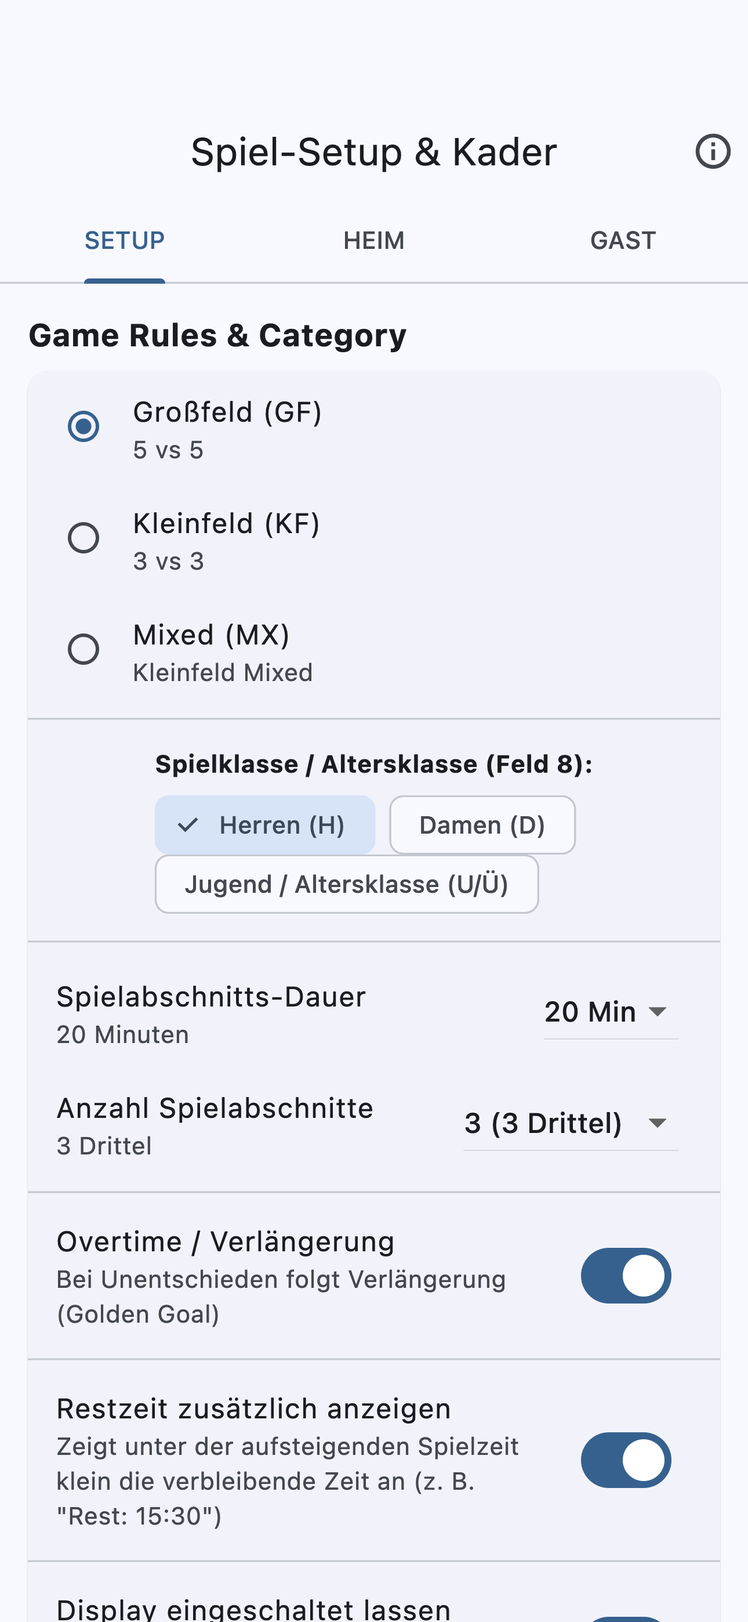
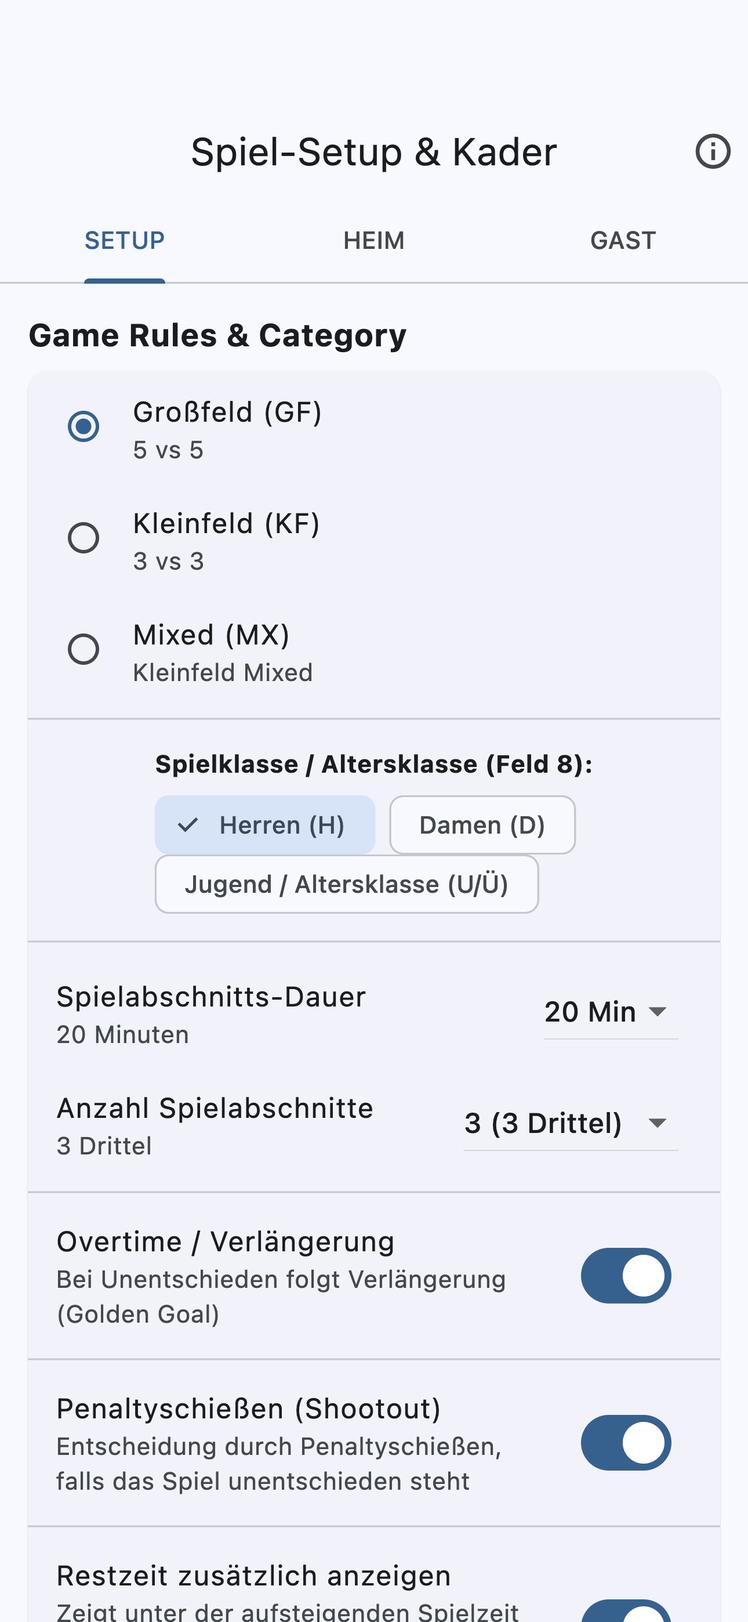
Update Floorball Clock website and manual with penalty shootout support, UI panel, scoreboard integration, and updated screenshot gallery

Changed region(s): [[0.062, 0.8401, 0.7132, 1.0], [0.7752, 0.9646, 0.8992, 1.0], [0.7752, 0.8712, 0.8992, 0.9335]]

diff --git a/handbuch.html b/handbuch.html
@@ -3,7 +3,7 @@
 <head>
   <meta charset="UTF-8">
   <meta name="viewport" content="width=device-width, initial-scale=1.0">
-  <meta name="description" content="Offizielles Benutzerhandbuch für Floorball Clock nach dem Floorball-Regelwerk 2026 (SPRGK 2026 / IFF 2026): Spielsekretariat, Spielzeitmessung (Regel 201.1), Zeitanpassung, 2' / 2'+2' / 10' Strafen-Bearbeitung, DE/EN Mehrsprachigkeit, Betreuer, Scoreboard & offizieller PDF-Spielberichtsbogen.">
+  <meta name="description" content="Offizielles Benutzerhandbuch für Floorball Clock nach dem Floorball-Regelwerk 2026 (SPRGK 2026 / IFF 2026): Spielsekretariat, Spielzeitmessung (Regel 201.1), Zeitanpassung, Penaltyschießen (Shootout), 2' / 2'+2' / 10' Strafen-Bearbeitung, DE/EN Mehrsprachigkeit, Betreuer, Scoreboard & offizieller PDF-Spielberichtsbogen.">
   <title>Benutzerhandbuch – Floorball Clock (Regelwerk 2026) | Alex Wodniok</title>
   <link rel="stylesheet" href="css/style.css?v=2">
 </head>
@@ -46,7 +46,7 @@
       <div class="badge badge-orange">Offizielle Dokumentation nach Floorball-Regelwerk 2026 (SPRGK / IFF)</div>
       <h1>Floorball Clock <span class="text-gradient">Benutzerhandbuch</span></h1>
       <p style="font-size: 1.15rem; max-width: 800px;">
-        Vollständige Referenz und Anleitung für das digitale Spielsekretariat nach den <strong>Floorball-Spielregeln 2026</strong>. Erfahren Sie alles über die präzise Spielzeitsteuerung, aufsteigende Hallenanzeige (Regel 201.1), Zeitanpassung, das automatisierte 2' / 2'+2' / 10' Strafen-Management mit Live-Korrektur, Betreuer-Erfassung, zweisprachigen Betrieb (DE/EN) und den offiziellen Floorball-Deutschland PDF-Spielbericht.
+        Vollständige Referenz und Anleitung für das digitale Spielsekretariat nach den <strong>Floorball-Spielregeln 2026</strong>. Erfahren Sie alles über die präzise Spielzeitsteuerung, aufsteigende Hallenanzeige (Regel 201.1), Zeitanpassung, Penaltyschießen (Shootout), das automatisierte 2' / 2'+2' / 10' Strafen-Management mit Live-Korrektur, Betreuer-Erfassung, zweisprachigen Betrieb (DE/EN) und den offiziellen Floorball-Deutschland PDF-Spielbericht.
       </p>
     </div>
   </section>
@@ -63,14 +63,15 @@
           <li><a href="#spielzeit">2. Spielzeit, Formate & Regel 201.1</a></li>
           <li><a href="#pausen">3. Pausen & Intermissions</a></li>
           <li><a href="#tore">4. Spielstand & Tore erfassen</a></li>
-          <li><a href="#strafen-arten">5. Strafarten (Regelwerk 2026)</a></li>
-          <li><a href="#strafen-engine">6. Strafen-Logik & Live-Korrektur</a></li>
-          <li><a href="#timeout">7. Auszeiten / Timeouts (30s)</a></li>
-          <li><a href="#roster">8. Kader, Betreuer (Staff) & Vorlagen</a></li>
-          <li><a href="#display">9. Hallenanzeige (Scoreboard)</a></li>
-          <li><a href="#spielbericht">10. Offizieller PDF-Spielbericht</a></li>
-          <li><a href="#autosave">11. Auto-Save & Crash-Schutz</a></li>
-          <li><a href="#faq">12. FAQ & Schiedsgericht-Tipps</a></li>
+          <li><a href="#shootout">5. Penaltyschießen (Shootout)</a></li>
+          <li><a href="#strafen-arten">6. Strafarten (Regelwerk 2026)</a></li>
+          <li><a href="#strafen-engine">7. Strafen-Logik & Live-Korrektur</a></li>
+          <li><a href="#timeout">8. Auszeiten / Timeouts (30s)</a></li>
+          <li><a href="#roster">9. Kader, Betreuer & Vorlagen</a></li>
+          <li><a href="#display">10. Hallenanzeige (Scoreboard)</a></li>
+          <li><a href="#spielbericht">11. Offizieller PDF-Spielbericht</a></li>
+          <li><a href="#autosave">12. Auto-Save & Crash-Schutz</a></li>
+          <li><a href="#faq">13. FAQ & Schiedsgericht-Tipps</a></li>
         </ul>
       </aside>
 
@@ -199,9 +200,51 @@
           </div>
         </article>
 
-        <!-- 5. Strafarten -->
+        <!-- 5. Penaltyschießen (Shootout) -->
+        <article class="manual-section" id="shootout">
+          <h2>5. Penaltyschießen (Shootout) nach IFF-Reglement</h2>
+          <div class="manual-card">
+            <p>
+              Endet ein K.o.- oder Playoff-Spiel auch nach der Overtime unentschieden, schaltet Floorball Clock nahtlos in den <strong>Penalty-Shootout-Modus</strong> um:
+            </p>
+
+            <div class="step-block">
+              <div class="step-number">🥅</div>
+              <div class="step-details">
+                <h4>5 reguläre Schützen pro Team</h4>
+                <p>Jedes Team nominiert 5 Schützen aus dem aktuellen Spielkader. Die App führt das Schiedsgericht abwechselnd durch die Versuche von Heim- und Gastteam.</p>
+              </div>
+            </div>
+
+            <div class="step-block">
+              <div class="step-number">✓ / ✗</div>
+              <div class="step-details">
+                <h4>Einfache Treffer-Erfassung & Validierung</h4>
+                <p>Für jeden Schützen wird per Fingertipp protokolliert, ob der Penalty verwandelt (<strong>Tor ✓</strong>) oder vergeben (<strong>Kein Tor ✗</strong>) wurde. Die App berechnet den vorzeitigen Sieg, sobald ein Team uneinholbar führt.</p>
+              </div>
+            </div>
+
+            <div class="step-block">
+              <div class="step-number">⚡</div>
+              <div class="step-details">
+                <h4>Sudden-Death-Verlängerung bei Gleichstand</h4>
+                <p>Steht es nach 5 Runden unentschieden, wechselt das System automatisch in das <em>Sudden-Death-Penaltyschießen</em> (1-gegen-1-Runden bis zur Entscheidung).</p>
+              </div>
+            </div>
+
+            <div class="step-block">
+              <div class="step-number">🖥</div>
+              <div class="step-details">
+                <h4>Scoreboard & PDF-Integration</h4>
+                <p>Die Treffer werden in Echtzeit auf dem externen Hallen-Scoreboard für alle Zuschauer visualisiert und automatisch im offiziellen PDF-Spielberichtsbogen dokumentiert.</p>
+              </div>
+            </div>
+          </div>
+        </article>
+
+        <!-- 6. Strafarten -->
         <article class="manual-section" id="strafen-arten">
-          <h2>5. Unterstützte Strafarten (Floorball-Regelwerk 2026)</h2>
+          <h2>6. Unterstützte Strafarten (Floorball-Regelwerk 2026)</h2>
           <div class="manual-card">
             <p>
               In Floorball Clock sind exakt die im offiziellen Regelwerk 2026 (SPRGK / IFF) definierten Strafarten hinterlegt:
@@ -255,9 +298,9 @@
           </div>
         </article>
 
-        <!-- 6. Die Strafen-Logik & Live-Korrektur -->
+        <!-- 7. Die Strafen-Logik & Live-Korrektur -->
         <article class="manual-section" id="strafen-engine">
-          <h2>6. Die intelligente Strafen-Engine & Live-Korrektur</h2>
+          <h2>7. Die intelligente Strafen-Engine & Live-Korrektur</h2>
           <div class="manual-card">
             <p>
               Floorball Clock verfügt über eine hochentwickelte Regellogik, die dem Schiedsgericht alle Berechnungen vollautomatisch abnimmt:
@@ -300,9 +343,9 @@
           </div>
         </article>
 
-        <!-- 7. Timeouts -->
+        <!-- 8. Timeouts -->
         <article class="manual-section" id="timeout">
-          <h2>7. Auszeiten / Timeouts (30 Sekunden)</h2>
+          <h2>8. Auszeiten / Timeouts (30 Sekunden)</h2>
           <div class="manual-card">
             <p>
               Jedes Team hat pro Spiel Anspruch auf <strong>genau ein Timeout von 30 Sekunden</strong>:
@@ -317,9 +360,9 @@
           </div>
         </article>
 
-        <!-- 8. Kader, Betreuer & Vorlagen -->
+        <!-- 9. Kader, Betreuer & Vorlagen -->
         <article class="manual-section" id="roster">
-          <h2>8. Kader (Roster), Betreuer-Erfassung (Staff) & Vorlagen</h2>
+          <h2>9. Kader (Roster), Betreuer-Erfassung (Staff) & Vorlagen</h2>
           <div class="manual-card">
             <p>
               Über das Personen-Symbol in der App-Leiste gelangen Sie zur Kaderverwaltung (<em>Match Setup & Rosters</em>):
@@ -359,9 +402,9 @@
           </div>
         </article>
 
-        <!-- 9. Hallenanzeige (Scoreboard) -->
+        <!-- 10. Hallenanzeige (Scoreboard) -->
         <article class="manual-section" id="display">
-          <h2>9. Hallenanzeige / Scoreboard auf externen Monitoren</h2>
+          <h2>10. Hallenanzeige / Scoreboard auf externen Monitoren</h2>
           <div class="manual-card">
             <p>
               Floorball Clock bietet native Multi-Display-Unterstützung für alle Plattformen mit automatischem, responsivem Layout:
@@ -385,20 +428,20 @@
 
             <div class="callout callout-tip">
               <h5>✨ Scoreboard Layout gem. Regel 201.1</h5>
-              <p>Aufsteigende Spielzeitanzeige (<code>00:00 -> 20:00</code>), Team-Namen & Logos, aktueller Spielabschnitt, Strafzeiten mit Spielernummern und Phasenkennzeichnung <code>(1/2)</code>, Pausen-Countdowns sowie aktive Timeout-Countdowns.</p>
+              <p>Aufsteigende Spielzeitanzeige (<code>00:00 -> 20:00</code>), Team-Namen & Logos, aktueller Spielabschnitt, Strafzeiten mit Spielernummern und Phasenkennzeichnung <code>(1/2)</code>, Pausen-Countdowns, aktive Timeout-Countdowns und Shootout-Ergebnisse.</p>
             </div>
           </div>
         </article>
 
-        <!-- 10. Spielbericht & PDF-Export -->
+        <!-- 11. Spielbericht & PDF-Export -->
         <article class="manual-section" id="spielbericht">
-          <h2>10. Offizieller Floorball Deutschland Spielbericht (PDF)</h2>
+          <h2>11. Offizieller Floorball Deutschland Spielbericht (PDF)</h2>
           <div class="manual-card">
             <p>
               Über das Protokoll-Symbol in der Titelleiste öffnen Sie den <strong>Match Report Screen</strong>:
             </p>
             <ul style="padding-left: 1.5rem; line-height: 1.8; margin-bottom: 1.5rem;">
-              <li><strong>Offizielles Verbands-Layout:</strong> Generiert einen vollständigen Floorball-Deutschland-Spielberichtsbogen inklusive Spielabschnitts-Ergebnisse, Kaderlisten und Betreuern mit exakter Ausrichtung der Verbands-Ankreuzfelder.</li>
+              <li><strong>Offizielles Verbands-Layout:</strong> Generiert einen vollständigen Floorball-Deutschland-Spielberichtsbogen inklusive Spielabschnitts-Ergebnisse, Penaltyschützen, Kaderlisten und Betreuern mit exakter Ausrichtung der Verbands-Ankreuzfelder.</li>
               <li><strong>Interaktive PDF-Vorschau:</strong> Dedizierter Vorschaubildschirm mit Zoom, Seitenansicht und direkter Druck- und Teilen-Option.</li>
               <li><strong>Chronologischer Spielverlauf:</strong> Lückenlose Aufzeichnung aller Tore (inkl. Schütze & Assist), Strafen (inkl. offizieller Vergehen-Codes gem. IFF) und Timeouts.</li>
               <li><strong>Digitale Unterschriften:</strong> Erfassung der Signaturen für 1. Schiedsrichter, 2. Schiedsrichter, Sekretär und beide Kapitäne direkt auf dem Touchscreen.</li>
@@ -407,25 +450,28 @@
           </div>
         </article>
 
-        <!-- 11. Auto-Save -->
+        <!-- 12. Auto-Save -->
         <article class="manual-section" id="autosave">
-          <h2>11. Zustandsspeicherung & Auto-Save (Crash-Sicherheit)</h2>
+          <h2>12. Zustandsspeicherung & Auto-Save (Crash-Sicherheit)</h2>
           <div class="manual-card">
             <p>
               Höchste Ausfallsicherheit am Zeitnehmertisch:
             </p>
             <ul style="padding-left: 1.5rem; line-height: 1.8;">
-              <li><strong>Laufende Speicherung:</strong> Der gesamte Spielstand (Restzeit, Tore, Strafen-Timer, Roster, Betreuer und Status) wird alle 5 Sekunden sowie bei jeder Aktion automatisch auf dem Gerät gesichert.</li>
+              <li><strong>Laufende Speicherung:</strong> Der gesamte Spielstand (Restzeit, Tore, Strafen-Timer, Shootout-State, Roster, Betreuer und Status) wird alle 5 Sekunden sowie bei jeder Aktion automatisch auf dem Gerät gesichert.</li>
               <li><strong>Wiederherstellung:</strong> Sollte die App geschlossen werden oder das Tablet neu starten, stellt Floorball Clock den exakten Spielzustand beim nächsten Start lückenlos wieder her.</li>
             </ul>
           </div>
         </article>
 
-        <!-- 12. FAQ -->
+        <!-- 13. FAQ -->
         <article class="manual-section" id="faq">
-          <h2>12. Häufige Fragen & Praxistipps</h2>
+          <h2>13. Häufige Fragen & Praxistipps</h2>
           <div class="manual-card">
-            <h4>Wie verhält sich die App, wenn zwei Strafen exakt zeitgleich enden?</h4>
+            <h4>Wie verhält sich die App beim Penaltyschießen?</h4>
+            <p>Die App führt das Schiedsgericht durch die 5 regulären Schützen pro Team. Fällt keine Entscheidung, startet automatisch das Sudden-Death-Verfahren. Alle Treffer werden synchron auf der Hallenanzeige und im Spielbericht eingetragen.</p>
+
+            <h4 style="margin-top: 1.5rem;">Wie verhält sich die App, wenn zwei Strafen exakt zeitgleich enden?</h4>
             <p>Gemäß IFF Regel 603.2 öffnet die App einen Schiedsgerichts-Dialog (<em>Entscheidung erforderlich: Welcher Spieler kehrt zurück?</em>), um dem Zeitnehmer die manuelle Entscheidung zu überlassen.</p>
 
             <h4 style="margin-top: 1.5rem;">Können Strafzeiten während des Spiels korrigiert werden?</h4>
@@ -438,7 +484,7 @@
             <p><strong>Ja!</strong> Floorball Clock ist vollständig in <strong>Deutsch und Englisch</strong> verfügbar und passt sich automatisch den Systemeinstellungen Ihres Geräts an.</p>
 
             <h4 style="margin-top: 1.5rem;">Funktioniert die App vollständig offline in der Sporthalle?</h4>
-            <p><strong>Ja!</strong> Zeitmessung, Strafen-Engine, Huptöne, Beamer-Ausgabe und PDF-Erstellung benötigen keinerlei Internetverbindung.</p>
+            <p><strong>Ja!</strong> Zeitmessung, Strafen-Engine, Penaltyschießen, Huptöne, Beamer-Ausgabe und PDF-Erstellung benötigen keinerlei Internetverbindung.</p>
           </div>
         </article>
 
@@ -463,6 +509,7 @@
           <ul class="footer-links">
             <li><a href="floorball-clock.html">App Details</a></li>
             <li><a href="handbuch.html">Benutzerhandbuch</a></li>
+            <li><a href="#shootout">Penaltyschießen</a></li>
             <li><a href="#strafen-arten">Strafarten</a></li>
             <li><a href="#display">Hallen-Scoreboard</a></li>
           </ul>

diff --git a/floorball-clock.html b/floorball-clock.html
@@ -3,13 +3,13 @@
 <head>
   <meta charset="UTF-8">
   <meta name="viewport" content="width=device-width, initial-scale=1.0">
-  <meta name="description" content="Floorball Clock – Das professionelle digitale Spielsekretariat für Floorball & Unihockey nach dem offiziellen Regelwerk 2026 (SPRGK 2026 / IFF 2026 / Floorball Deutschland). Spielzeit, Zeitanpassung, 2' / 2'+2' / 10' Strafen-Bearbeitung, Betreuer-Erfassung, Scoreboard & offizieller PDF-Spielberichtsbogen.">
-  <meta name="keywords" content="Floorball Clock, Floorball Spielsekretariat, Unihockey Scoreboard, Hallenuhr, Strafen Floorball, Floorball Deutschland, SPRGK 2026, IFF 2026, Alexander Wodniok">
+  <meta name="description" content="Floorball Clock – Das professionelle digitale Spielsekretariat für Floorball & Unihockey nach dem offiziellen Regelwerk 2026 (SPRGK 2026 / IFF 2026 / Floorball Deutschland). Spielzeit, Zeitanpassung, 2' / 2'+2' / 10' Strafen-Bearbeitung, Penaltyschießen, Betreuer-Erfassung, Scoreboard & offizieller PDF-Spielberichtsbogen.">
+  <meta name="keywords" content="Floorball Clock, Floorball Spielsekretariat, Penaltyschießen Floorball, Unihockey Scoreboard, Hallenuhr, Strafen Floorball, Floorball Deutschland, SPRGK 2026, IFF 2026, Alexander Wodniok">
   <meta name="author" content="Alexander Wodniok">
   <link rel="canonical" href="https://alwode.github.io/wodniok_website/floorball-clock.html">
   <meta property="og:title" content="Floorball Clock – Digitales Spielsekretariat & Hallenuhr (Regelwerk 2026)">
-  <meta property="og:description" content="Professionelles digitales Spielsekretariat für Floorball & Unihockey nach dem Regelwerk 2026. Mit Zeitanpassung, 2' / 2'+2' / 10' Strafen-Logik, Hallen-Scoreboard und offiziellem PDF-Spielbericht.">
-  <meta property="og:image" content="https://alwode.github.io/wodniok_website/images/floorball-clock-screenshot-main.png?v=5">
+  <meta property="og:description" content="Professionelles digitales Spielsekretariat für Floorball & Unihockey nach dem Regelwerk 2026. Mit Zeitanpassung, 2' / 2'+2' / 10' Strafen-Logik, Penaltyschießen, Hallen-Scoreboard und offiziellem PDF-Spielbericht.">
+  <meta property="og:image" content="https://alwode.github.io/wodniok_website/images/floorball-clock-screenshot-main.png?v=7">
   <meta property="og:url" content="https://alwode.github.io/wodniok_website/floorball-clock.html">
   <meta property="og:type" content="website">
   <title>Floorball Clock – Digitales Spielsekretariat & Hallenuhr (Regelwerk 2026) | Alex Wodniok</title>
@@ -54,7 +54,7 @@
         <div class="badge badge-orange">Offizielles Floorball-Regelwerk 2026 (SPRGK / IFF)</div>
         <h1>Floorball <span class="text-gradient">Clock</span></h1>
         <p class="hero-subtitle">
-          Die professionelle Komplettlösung für Schiedsgerichte, Zeitnehmer und Vereine – vollständig angepasst an die <strong>Floorball-Spielregeln 2026</strong>. Ersetzt Stoppuhren und Papierformulare durch automatisierte <strong>2' / 2'+2' / 10'</strong> Strafen-Logik, Zeitanpassung, aufsteigende Hallenanzeige (Regel 201.1), zweisprachige Oberfläche (DE/EN), Betreuer-Erfassung und offizielle Floorball-Deutschland PDF-Spielberichte.
+          Die professionelle Komplettlösung für Schiedsgerichte, Zeitnehmer und Vereine – vollständig angepasst an die <strong>Floorball-Spielregeln 2026</strong>. Ersetzt Stoppuhren und Papierformulare durch automatisierte <strong>2' / 2'+2' / 10'</strong> Strafen-Logik, Zeitanpassung, interaktives <strong>Penaltyschießen (Shootout)</strong>, aufsteigende Hallenanzeige (Regel 201.1), zweisprachige Oberfläche (DE/EN), Betreuer-Erfassung und offizielle Floorball-Deutschland PDF-Spielberichte.
         </p>
 
         <div class="hero-buttons">
@@ -71,8 +71,8 @@
             <p>Zehntelsekunden im Schlussspurt</p>
           </div>
           <div class="stat-item">
-            <h4>Regelwerk 2026</h4>
-            <p>2' / 2'+2' / 10' Strafen-Engine & Live-Korrektur</p>
+            <h4>Shootout</h4>
+            <p>Penaltyschießen & Sudden Death</p>
           </div>
           <div class="stat-item">
             <h4>DE / EN</h4>
@@ -84,7 +84,7 @@
       <!-- App Screenshot Hero (iPhone) -->
       <div class="hero-visual">
         <div class="app-visual-wrapper">
-          <img src="images/floorball-clock-screenshot-main.png?v=6" alt="Floorball Clock iPhone Screenshot Hauptsteuerung mit Zeitanpassung" class="app-screenshot-hero" style="border-color: rgba(99, 102, 241, 0.4); box-shadow: var(--shadow-glow); max-width: 290px;">
+          <img src="images/floorball-clock-screenshot-main.png?v=7" alt="Floorball Clock iPhone Screenshot Hauptsteuerung mit Zeitanpassung" class="app-screenshot-hero" style="border-color: rgba(99, 102, 241, 0.4); box-shadow: var(--shadow-glow); max-width: 290px;">
         </div>
       </div>
     </div>
@@ -96,46 +96,54 @@
       <div class="section-header" style="margin-bottom: 2rem;">
         <div class="badge badge-orange">App Store & Feature Einblicke</div>
         <h2>App-Screenshots auf iPhone, iPad & Hallen-Scoreboard</h2>
-        <p>Entwickelt für eine intuitive Bedienung am Schreibertisch mit schnellen Aktionen, präziser Zeitanpassung, Strafen-Korrektur und regelkonformer Hallenanzeige.</p>
+        <p>Entwickelt für eine intuitive Bedienung am Schreibertisch mit schnellen Aktionen, präziser Zeitanpassung, Strafen-Korrektur, Penaltyschießen und regelkonformer Hallenanzeige.</p>
       </div>
 
       <div class="screenshots-gallery-grid">
         <!-- Item 1 -->
         <div class="screenshot-gallery-item">
           <div class="screenshot-img-box">
-            <img src="images/floorball-clock-screenshot-main.png?v=6" alt="Floorball Clock iPhone Hauptsteuerung & Spielsekretariat mit Zeitanpassung">
+            <img src="images/floorball-clock-screenshot-main.png?v=7" alt="Floorball Clock iPhone Hauptsteuerung & Spielsekretariat mit Zeitanpassung">
           </div>
           <div class="screenshot-caption">⏱ Spielsekretariat & Feineinstellung (-5s..+5s)</div>
         </div>
 
-        <!-- Item 2 -->
+        <!-- Item 2: Penalty Shootout -->
         <div class="screenshot-gallery-item">
           <div class="screenshot-img-box">
-            <img src="images/floorball-clock-screenshot-penalty.png?v=6" alt="Floorball Clock Strafen-Eingabedialog und Strafen-Korrektur">
+            <img src="images/floorball-clock-screenshot-shootout.png?v=7" alt="Floorball Clock Penaltyschießen Shootout Panel">
           </div>
-          <div class="screenshot-caption">⚖ 2' / 2'+2' / 10' / MS Strafen & Korrektur</div>
+          <div class="screenshot-caption">🥅 Penaltyschießen (5 Schützen & Sudden Death)</div>
         </div>
 
         <!-- Item 3 -->
         <div class="screenshot-gallery-item">
           <div class="screenshot-img-box">
-            <img src="images/floorball-clock-screenshot-setup.png?v=6" alt="Floorball Clock Spielregeln Großfeld 5v5 Kleinfeld 3v3 und Overtime">
+            <img src="images/floorball-clock-screenshot-penalty.png?v=7" alt="Floorball Clock Strafen-Eingabedialog und Strafen-Korrektur">
           </div>
-          <div class="screenshot-caption">⚙ Großfeld (5v5) / Kleinfeld (3v3) & Team-Vorlagen</div>
+          <div class="screenshot-caption">⚖ 2' / 2'+2' / 10' / MS Strafen & Korrektur</div>
         </div>
 
         <!-- Item 4 -->
         <div class="screenshot-gallery-item">
           <div class="screenshot-img-box">
-            <img src="images/floorball-clock-screenshot-report.png?v=6" alt="Floorball Clock Offizieller Floorball Deutschland Spielbericht mit PDF-Export">
+            <img src="images/floorball-clock-screenshot-setup.png?v=7" alt="Floorball Clock Spielregeln Großfeld 5v5 Kleinfeld 3v3 und Overtime">
           </div>
-          <div class="screenshot-caption">📄 Interaktiver Spielbericht & PDF-Vorschau</div>
+          <div class="screenshot-caption">⚙ Großfeld (5v5) / Kleinfeld (3v3) & Team-Vorlagen</div>
         </div>
 
         <!-- Item 5 -->
         <div class="screenshot-gallery-item">
           <div class="screenshot-img-box">
-            <img src="images/floorball-clock-screenshot-scoreboard.png?v=6" alt="Floorball Clock Scoreboard Beamer Hallenanzeige Regel 201.1">
+            <img src="images/floorball-clock-screenshot-report.png?v=7" alt="Floorball Clock Offizieller Floorball Deutschland Spielbericht mit PDF-Export">
+          </div>
+          <div class="screenshot-caption">📄 Interaktiver Spielbericht & PDF-Vorschau</div>
+        </div>
+
+        <!-- Item 6 -->
+        <div class="screenshot-gallery-item">
+          <div class="screenshot-img-box">
+            <img src="images/floorball-clock-screenshot-scoreboard.png?v=7" alt="Floorball Clock Scoreboard Beamer Hallenanzeige Regel 201.1">
           </div>
           <div class="screenshot-caption">🖥 Hallen-Scoreboard (Aufsteigend gem. Regel 201.1)</div>
         </div>
@@ -163,18 +171,18 @@
 
         <div class="feature-card orange">
           <div class="feature-icon orange">
-            <svg viewBox="0 0 24 24" fill="none" stroke="currentColor" stroke-width="2"><rect x="3" y="3" width="18" height="18" rx="2" ry="2"></rect><line x1="9" y1="9" x2="15" y2="15"></line><line x1="15" y1="9" x2="9" y2="15"></line></svg>
+            <svg viewBox="0 0 24 24" fill="none" stroke="currentColor" stroke-width="2"><circle cx="12" cy="12" r="10"></circle><circle cx="12" cy="12" r="4"></circle><line x1="4.93" y1="4.93" x2="9.17" y2="9.17"></line><line x1="14.83" y1="14.83" x2="19.07" y2="19.07"></line><line x1="14.83" y1="9.17" x2="19.07" y2="4.93"></line><line x1="4.93" y1="19.07" x2="9.17" y2="14.83"></line></svg>
           </div>
-          <h3>2' / 2'+2' / 10' Strafen & Live-Edit</h3>
-          <p>Regelkonforme Abarbeitung nach SPRGK 2026: Bankstrafen vor persönlichen Strafen, max. 2 Bankstrafen gleichzeitig (FIFO). Laufende Strafen können per Klick direkt im Spielbetrieb korrigiert werden.</p>
+          <h3>Penaltyschießen & Shootout</h3>
+          <p>Offizieller Turniermodus: Schnellauswahl aus 5 Schützen pro Team, automatische Treffervalidierung, Sudden-Death-Runden bei Gleichstand und direkte Übertragung auf das Hallen-Scoreboard.</p>
         </div>
 
         <div class="feature-card coral">
           <div class="feature-icon coral">
-            <svg viewBox="0 0 24 24" fill="none" stroke="currentColor" stroke-width="2"><circle cx="12" cy="12" r="10"></circle><line x1="12" y1="8" x2="12" y2="12"></line><line x1="12" y1="16" x2="12.01" y2="16"></line></svg>
+            <svg viewBox="0 0 24 24" fill="none" stroke="currentColor" stroke-width="2"><rect x="3" y="3" width="18" height="18" rx="2" ry="2"></rect><line x1="9" y1="9" x2="15" y2="15"></line><line x1="15" y1="9" x2="9" y2="15"></line></svg>
           </div>
-          <h3>Vorzeitige Strafenaufhebung & 2'+2' Phasen</h3>
-          <p>Bei Powerplay-Gegentoren wird exakt die älteste aufhebbare kleine Bankstrafe beendet bzw. bei 2'+2' sofort in Phase 2 geschaltet. Persönliche 10'-Strafen bleiben regelkonform bestehen.</p>
+          <h3>2' / 2'+2' / 10' Strafen & Live-Edit</h3>
+          <p>Regelkonforme Abarbeitung nach SPRGK 2026: Bankstrafen vor persönlichen Strafen, max. 2 Bankstrafen gleichzeitig (FIFO). Laufende Strafen können per Klick direkt im Spielbetrieb korrigiert werden.</p>
         </div>
 
         <div class="feature-card">
@@ -190,7 +198,7 @@
             <svg viewBox="0 0 24 24" fill="none" stroke="currentColor" stroke-width="2"><rect x="2" y="3" width="20" height="14" rx="2" ry="2"></rect><line x1="8" y1="21" x2="16" y2="21"></line><line x1="12" y1="17" x2="12" y2="21"></line></svg>
           </div>
           <h3>Aufsteigendes Scoreboard (Regel 201.1)</h3>
-          <p>Hallenanzeige via HDMI oder AirPlay: Zeigt die Spielzeit für Zuschauer regelkonform aufsteigend an (<code>00:00 -> 20:00</code>), inklusive synchroner Strafzeiten, Pausen-Countdowns und Auszeiten.</p>
+          <p>Hallenanzeige via HDMI oder AirPlay: Zeigt die Spielzeit für Zuschauer regelkonform aufsteigend an (<code>00:00 -> 20:00</code>), inklusive synchroner Strafzeiten, Pausen-Countdowns und Shootout-Punkte.</p>
         </div>
 
         <div class="feature-card coral">
@@ -198,7 +206,7 @@
             <svg viewBox="0 0 24 24" fill="none" stroke="currentColor" stroke-width="2"><path d="M14 2H6a2 2 0 0 0-2 2v16a2 2 0 0 0 2 2h12a2 2 0 0 0 2-2V8z"></path><polyline points="14 2 14 8 20 8"></polyline><line x1="16" y1="13" x2="8" y2="13"></line><line x1="16" y1="17" x2="8" y2="17"></line><polyline points="10 9 9 9 8 9"></polyline></svg>
           </div>
           <h3>Offizieller PDF-Spielbericht & Vorschau</h3>
-          <p>Lückenlose Erfassung aller Tore, Vorlagen, Strafen, Auszeiten und bis zu 5 Betreuern (Staff) pro Team. Interaktiver PDF-Vorschaubildschirm, digitale Unterschriften und Druck-Export.</p>
+          <p>Lückenlose Erfassung aller Tore, Vorlagen, Strafen, Penaltyschützen, Auszeiten und bis zu 5 Betreuern (Staff) pro Team. Interaktiver PDF-Vorschaubildschirm, digitale Unterschriften und Druck-Export.</p>
         </div>
       </div>
     </div>
@@ -221,8 +229,9 @@
           <ul class="footer-links">
             <li><a href="floorball-clock.html">App Details</a></li>
             <li><a href="handbuch.html">Benutzerhandbuch</a></li>
-            <li><a href="handbuch.html#strafen">Strafzeiten-Logik</a></li>
-            <li><a href="handbuch.html#scoreboard">Hallenanzeige</a></li>
+            <li><a href="handbuch.html#shootout">Penaltyschießen</a></li>
+            <li><a href="handbuch.html#strafen-arten">Strafzeiten-Logik</a></li>
+            <li><a href="handbuch.html#display">Hallenanzeige</a></li>
           </ul>
         </div>
 

diff --git a/apps.html b/apps.html
@@ -67,7 +67,7 @@
             </div>
             
             <p style="font-size: 1rem; margin-bottom: 1rem;">
-              Das professionelle digitale Spielsekretariat nach den offiziellen <strong>Floorball-Spielregeln 2026 (SPRGK / IFF)</strong>. Mit Zehntelsekunden-Genauigkeit, aufsteigender Hallenanzeige (Regel 201.1), flexiblen Spielformaten (Groß-/Kleinfeld), Uhrenanpassung, 2' / 2'+2' / 10' Strafen-Korrektur, Betreuer-Erfassung, Multi-Display-Scoreboard (HDMI/AirPlay) und offiziellem Floorball-Deutschland PDF-Spielberichtsbogen.
+              Das professionelle digitale Spielsekretariat nach den offiziellen <strong>Floorball-Spielregeln 2026 (SPRGK / IFF)</strong>. Mit Zehntelsekunden-Genauigkeit, aufsteigender Hallenanzeige (Regel 201.1), flexiblen Spielformaten (Groß-/Kleinfeld), Uhrenanpassung, 2' / 2'+2' / 10' Strafen-Korrektur, Penaltyschießen (Shootout), Betreuer-Erfassung, Multi-Display-Scoreboard (HDMI/AirPlay) und offiziellem Floorball-Deutschland PDF-Spielberichtsbogen.
             </p>
 
             <div style="display: flex; gap: 1rem; flex-wrap: wrap;">
